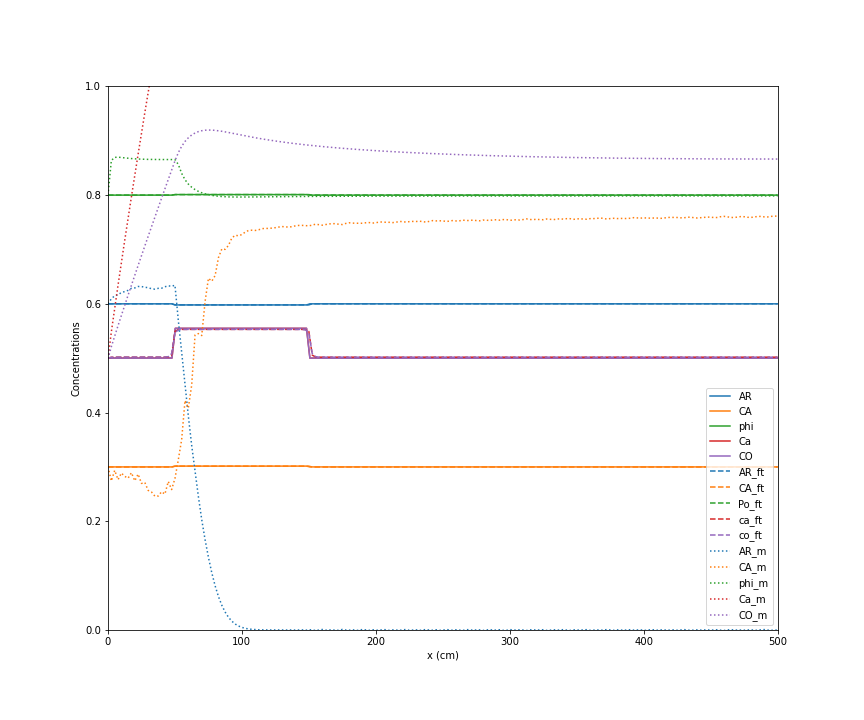
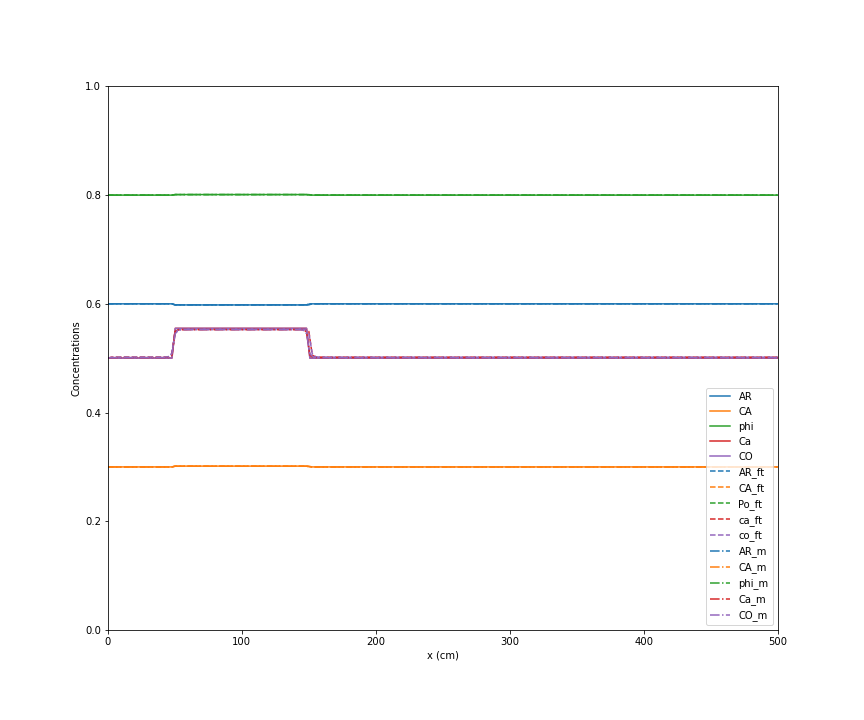
Added residual plots for ft, py and py-pde outputs pairwise.

diff --git a/comparePlot.py b/comparePlot.py
@@ -399,9 +399,43 @@ plt.plot(rhy.x*x_scale, np.abs(rhy.co - ft.CO.loc[:199]),label='co',color=colors
 plt.xlabel('x (cm)')
 plt.ylabel('residuals')
 plt.xlim(0,500)
-plt.ylim(0, 0.05)
+plt.ylim(0, 0.01)
+plt.legend()
+plt.savefig('%s%s'%(savedir,resfilename))
+plt.clf()
+
+########################## pypde vs. ft residuals #############################
+resfilename = 'res_t_1_ft_pde.png'
+fig = plt.figure(figsize=(12,10))
+plt.plot(rhy.x*x_scale, np.abs(pde[1,0,:] - ft.AR.loc[:199]), label='AR',color=colors[0], marker='x')
+plt.plot(rhy.x*x_scale, np.abs(pde[1,1,:] - ft.CA.loc[:199]), label='CA',color=colors[1], marker ='x')
+plt.plot(rhy.x*x_scale, np.abs(pde[1,4,:] - ft.Po.loc[:199]),label='Po',color=colors[2], marker='x')
+plt.plot(rhy.x*x_scale, np.abs(pde[1,2,:] - ft.Ca.loc[:199]),label='ca',color=colors[3], marker='x')
+plt.plot(rhy.x*x_scale, np.abs(pde[1,3,:] - ft.CO.loc[:199]),label='co',color=colors[4], marker='x')
+plt.xlabel('x (cm)')
+plt.ylabel('residuals')
+plt.xlim(0,500)
+plt.ylim(0, 0.01)
+plt.legend()
 
 plt.savefig('%s%s'%(savedir,resfilename))
+plt.clf()
+
+########################## pypde vs. rhythmite residuals ######################
+resfilename = 'res_t_1_py_pde.png'
+fig = plt.figure(figsize=(12,10))
+plt.plot(rhy.x*x_scale, np.abs(pde[1,0,:] - rhy.AR), label='AR',color=colors[0], marker='x')
+plt.plot(rhy.x*x_scale, np.abs(pde[1,1,:] - rhy.CA), label='CA',color=colors[1], marker ='x')
+plt.plot(rhy.x*x_scale, np.abs(pde[1,4,:] - rhy.phi),label='Po',color=colors[2], marker='x')
+plt.plot(rhy.x*x_scale, np.abs(pde[1,2,:] - rhy.ca),label='ca',color=colors[3], marker='x')
+plt.plot(rhy.x*x_scale, np.abs(pde[1,3,:] - rhy.co),label='co',color=colors[4], marker='x')
+plt.xlabel('x (cm)')
+plt.ylabel('residuals')
+plt.xlim(0,500)
+plt.ylim(0, 0.01)
+plt.legend()
+plt.savefig('%s%s'%(savedir,resfilename))
+plt.clf()
 
 ########################### do a temporal plot ###############################
 
